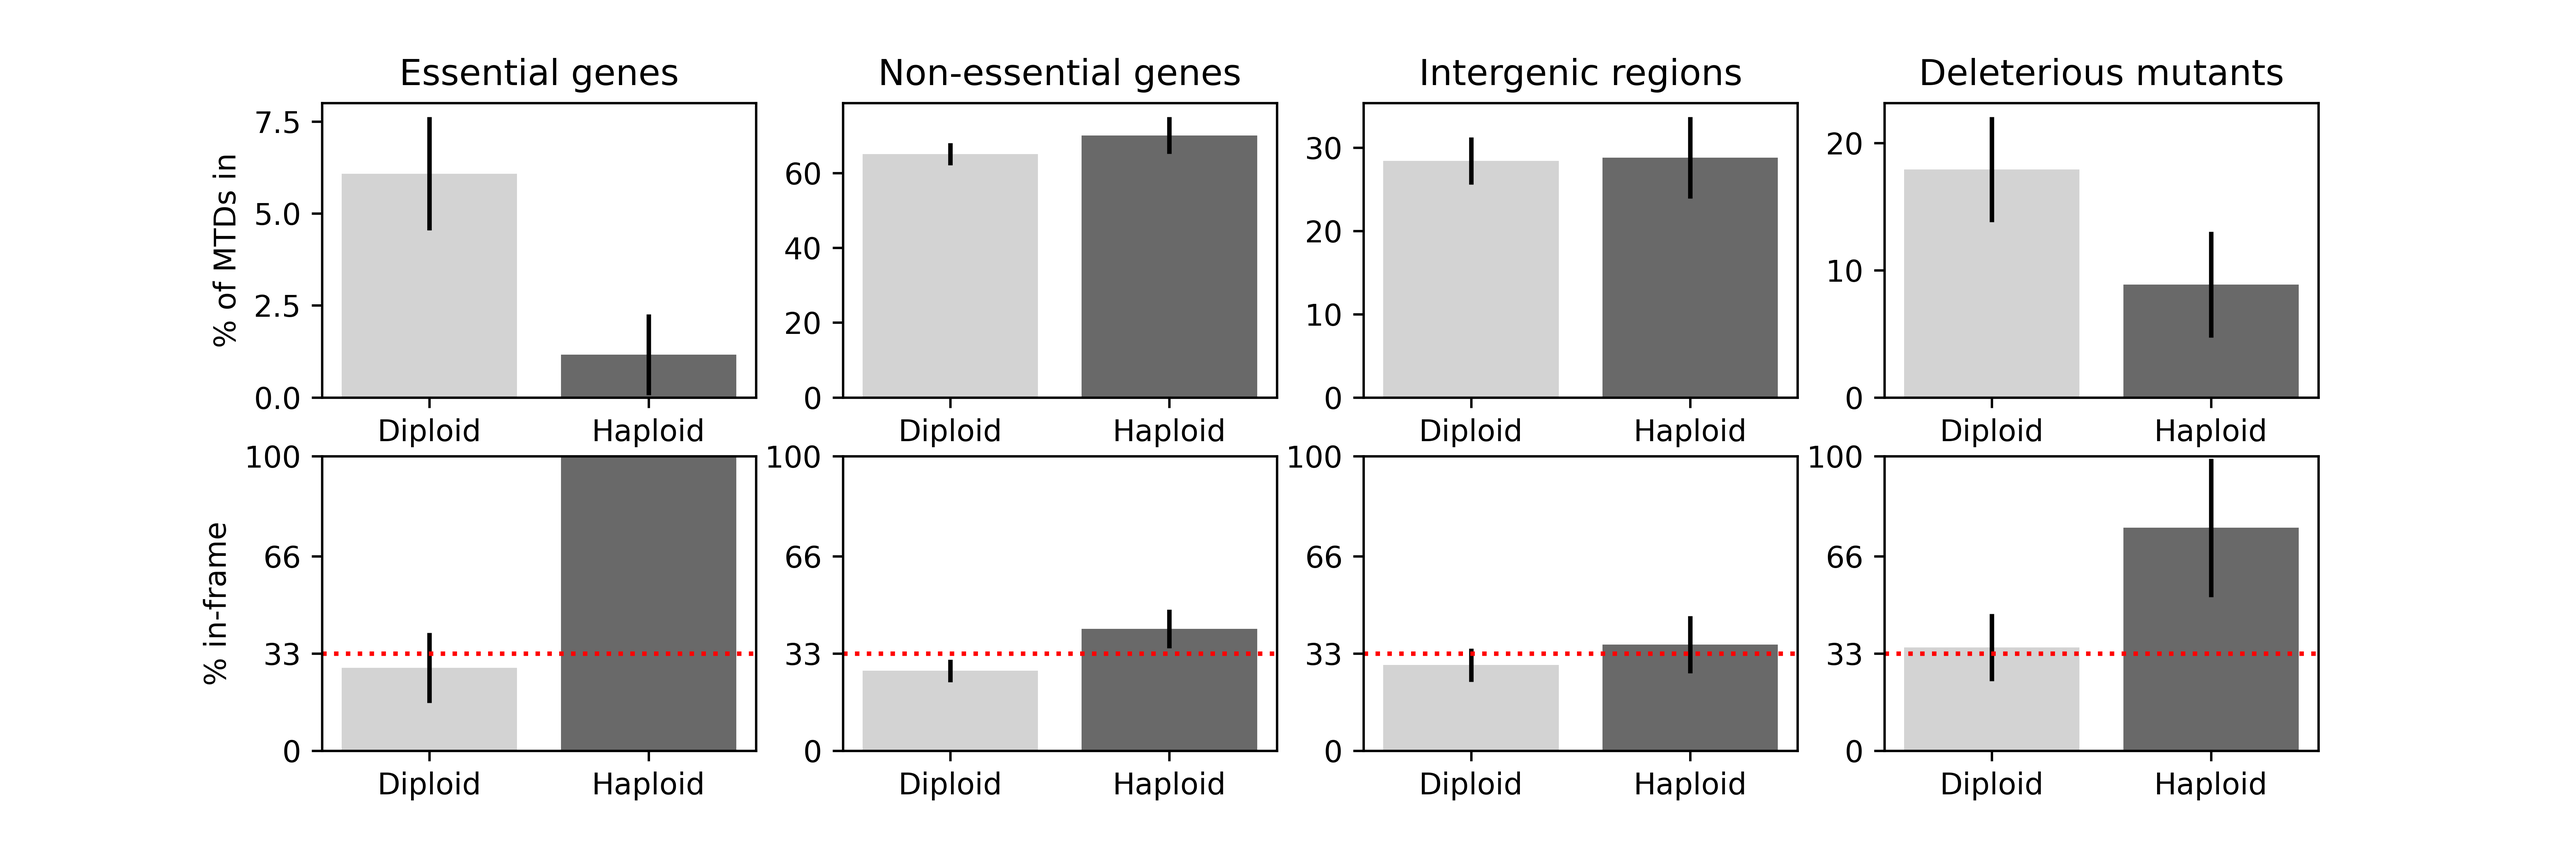
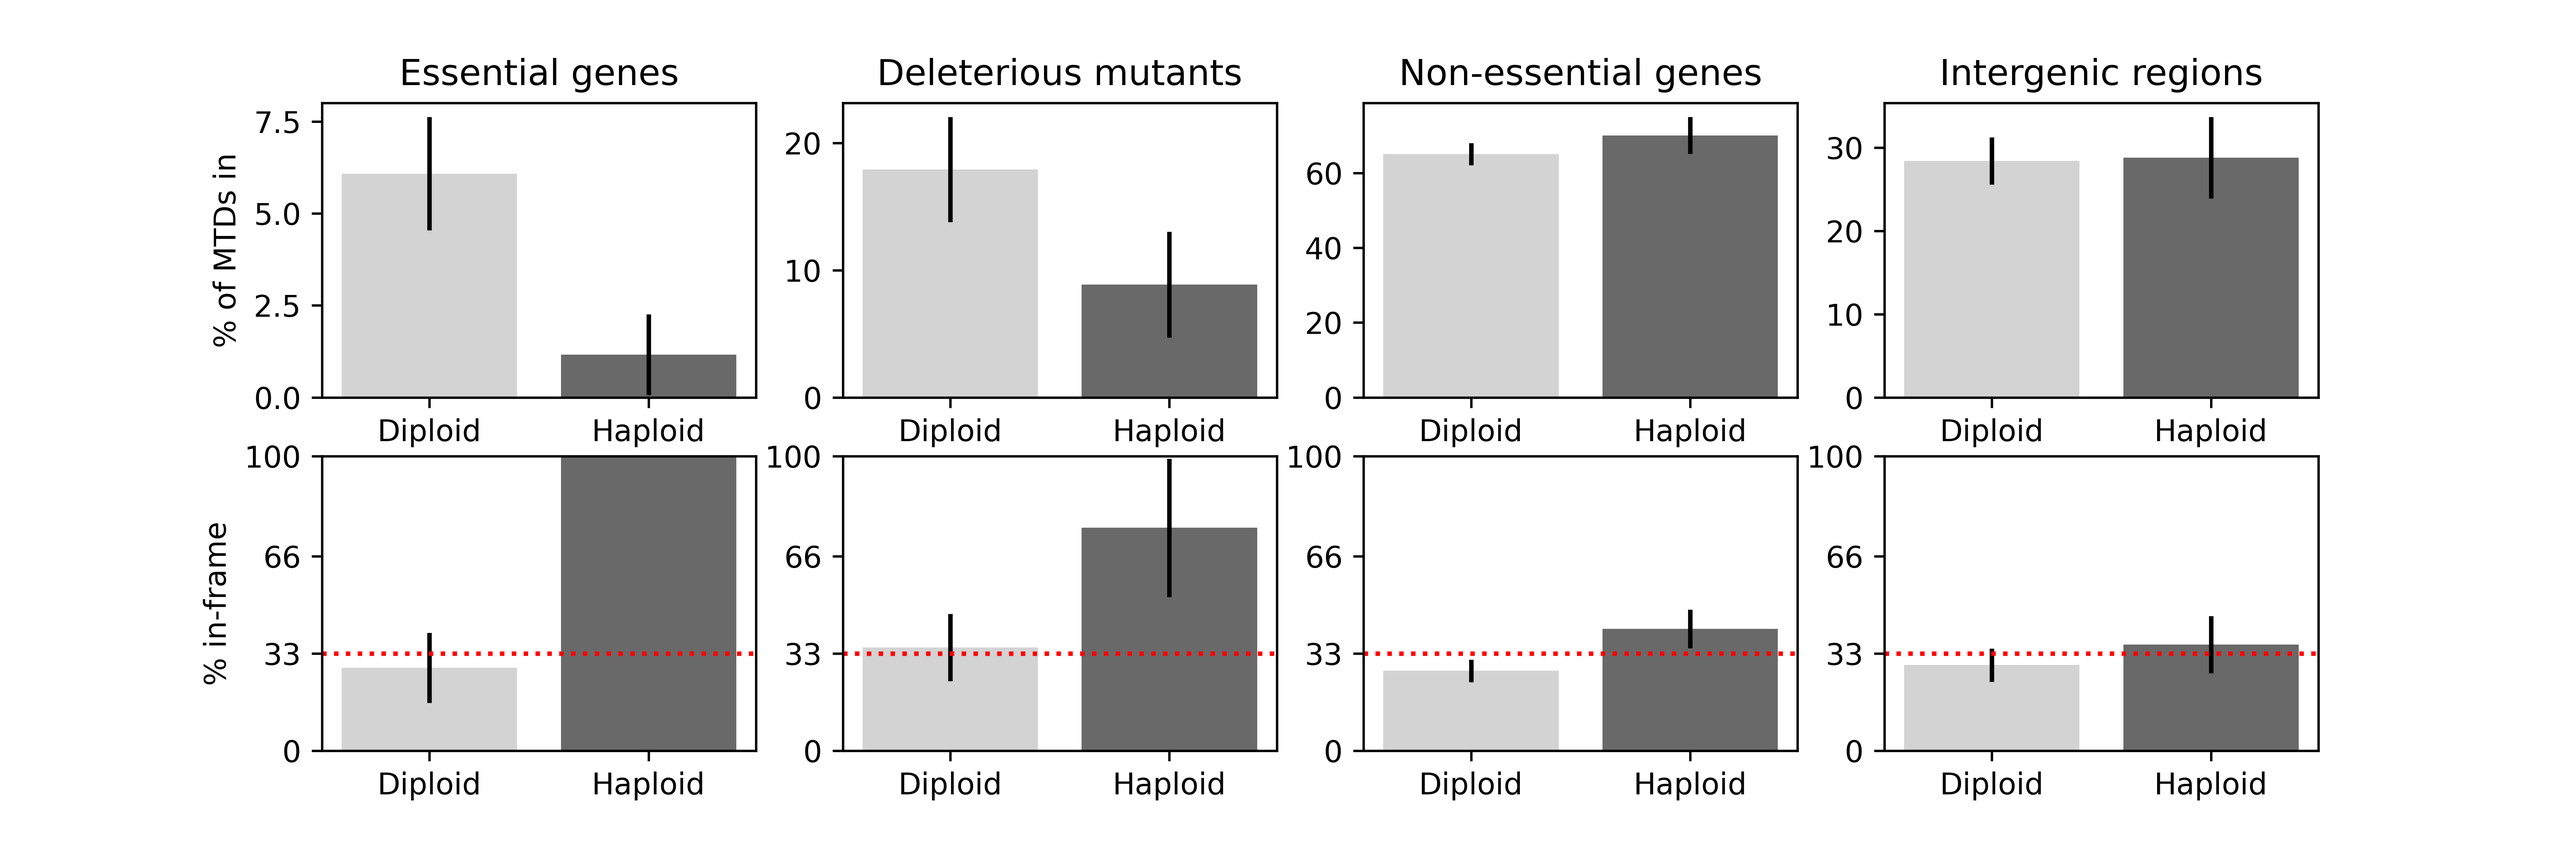
reoder boards

diff --git a/Revision__Scer_Hap_vs_Dip_MAlines/ScerHapDip__FractionInEssentialGenes.py b/Revision__Scer_Hap_vs_Dip_MAlines/ScerHapDip__FractionInEssentialGenes.py
@@ -112,19 +112,19 @@ fig.set_figwidth(12)
 ax[0,0].bar([1,2],g.PctEssential['mean'],yerr=g.PctEssential['std'],color=clrs)
 ax[0,0].set_ylabel(r'% of MTDs in')
 ax[0,0].set_title('Essential genes')
-ax[0,1].bar([1,2],g.PctNonEssential['mean'],yerr=g.PctNonEssential['std'],color=clrs)
-ax[0,1].set_title('Non-essential genes')
-ax[0,2].bar([1,2],g.PctIntergenic['mean'],yerr=g.PctIntergenic['std'],color=clrs)
-ax[0,2].set_title('Intergenic regions')
-ax[0,3].bar([1,2],g.PctDeleterious['mean'],yerr=g.PctDeleterious['std'],color=clrs)
-ax[0,3].set_title('Deleterious mutants')
+ax[0,2].bar([1,2],g.PctNonEssential['mean'],yerr=g.PctNonEssential['std'],color=clrs)
+ax[0,2].set_title('Non-essential genes')
+ax[0,3].bar([1,2],g.PctIntergenic['mean'],yerr=g.PctIntergenic['std'],color=clrs)
+ax[0,3].set_title('Intergenic regions')
+ax[0,1].bar([1,2],g.PctDeleterious['mean'],yerr=g.PctDeleterious['std'],color=clrs)
+ax[0,1].set_title('Deleterious mutants')
 
 ax[1,0].bar([1,2],g.Div3_pct_Essential['mean'],yerr=g.Div3_pct_Essential['std'],color=clrs)
 ax[1,0].set_ylabel(r'% in-frame')
-ax[1,1].bar([1,2],g.Div3_pct_NonEssential['mean'],yerr=g.Div3_pct_NonEssential['std'],color=clrs)
+ax[1,2].bar([1,2],g.Div3_pct_NonEssential['mean'],yerr=g.Div3_pct_NonEssential['std'],color=clrs)
 #ax[1,1].set_ylabel(r'% in-frame')
-ax[1,2].bar([1,2],g.Div3_pct_Intergenic['mean'],yerr=g.Div3_pct_Intergenic['std'],color=clrs)
-ax[1,3].bar([1,2],g.Div3_pct_Unfit['mean'],yerr=g.Div3_pct_Unfit['std'],color=clrs)
+ax[1,3].bar([1,2],g.Div3_pct_Intergenic['mean'],yerr=g.Div3_pct_Intergenic['std'],color=clrs)
+ax[1,1].bar([1,2],g.Div3_pct_Unfit['mean'],yerr=g.Div3_pct_Unfit['std'],color=clrs)
 
 #ax[1,2].set_ylabel(r'% in-frame')
 
